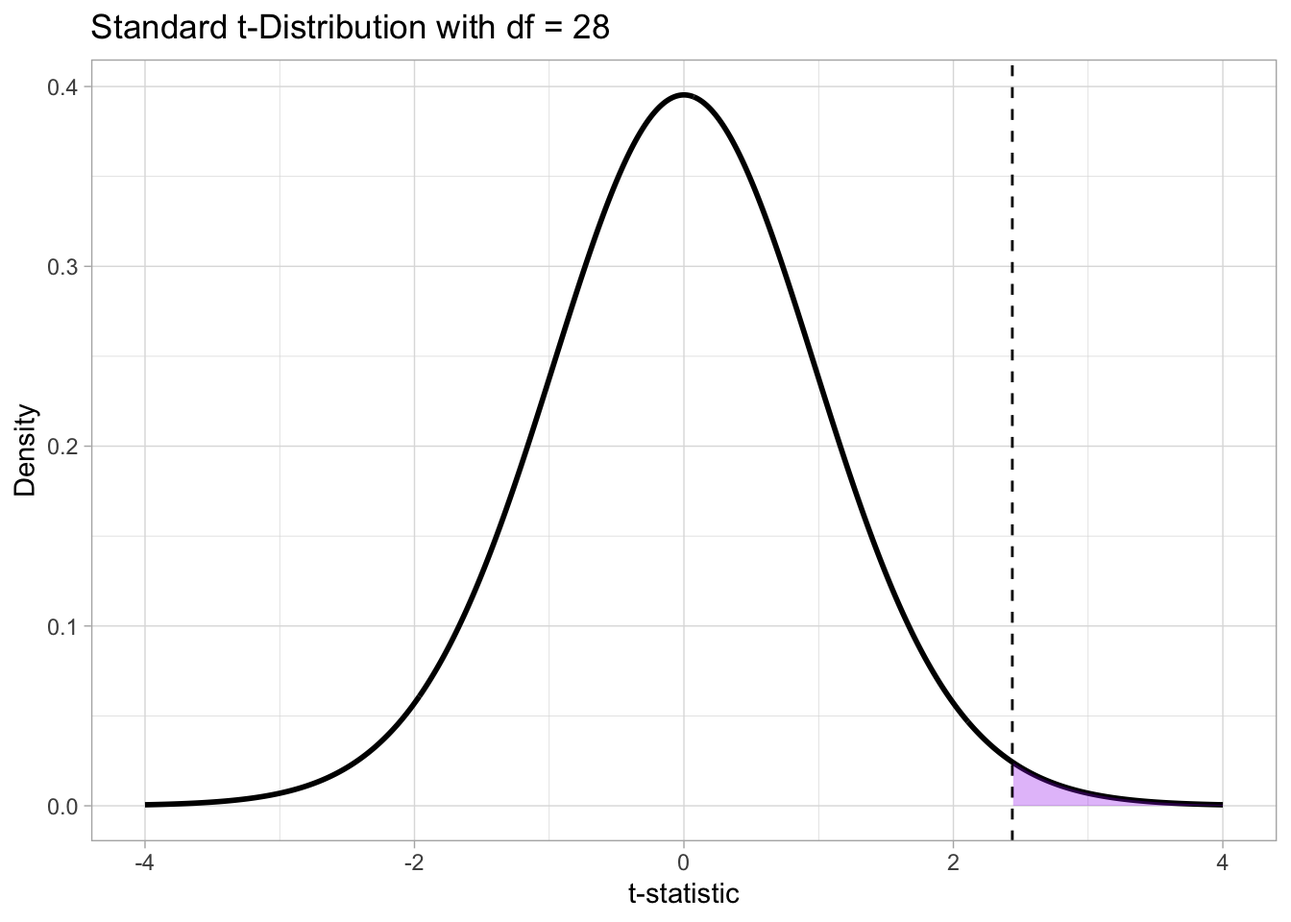
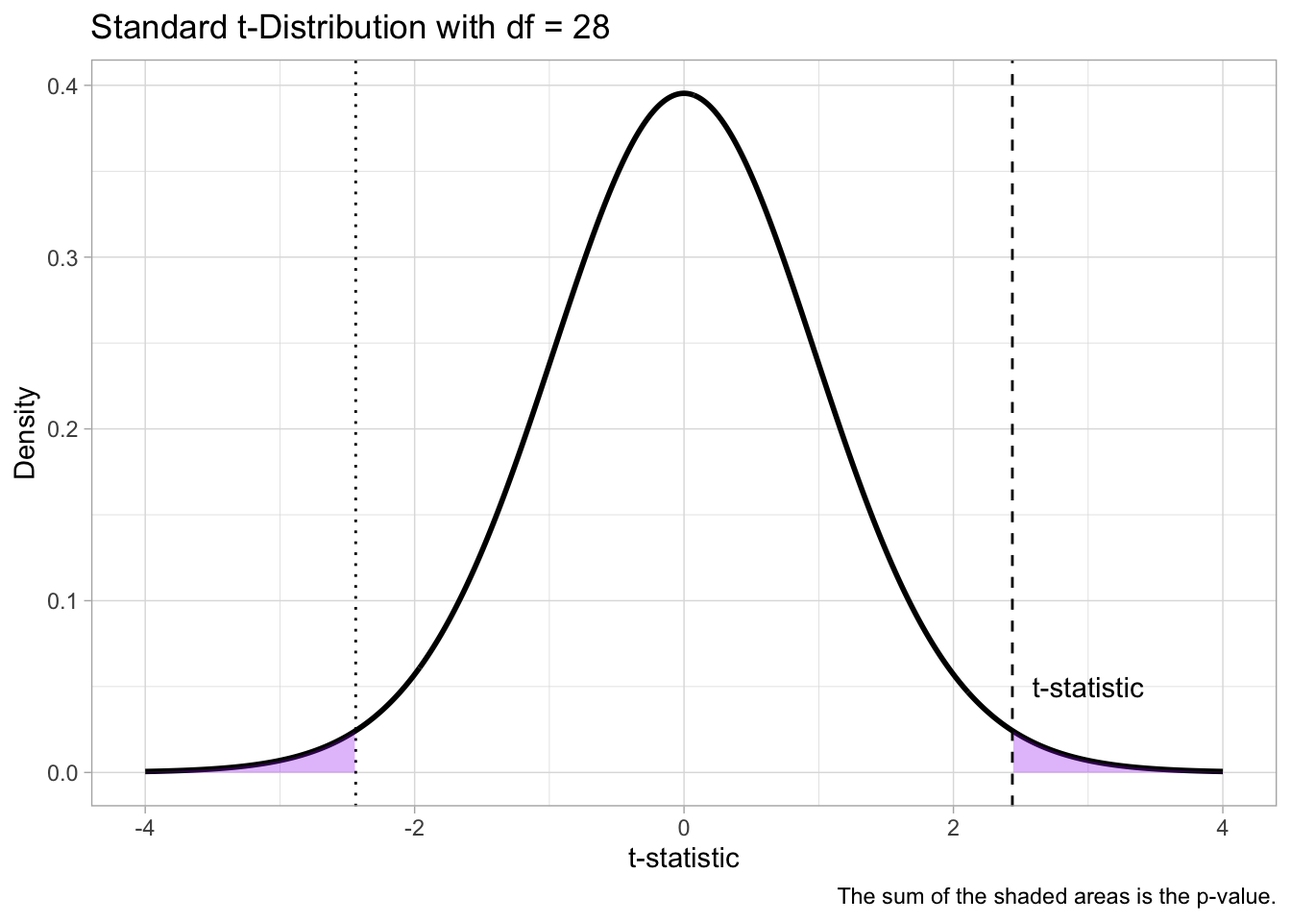
edit chapters

diff --git a/docs/ch-null-ritual.html b/docs/ch-null-ritual.html
@@ -741,9 +741,9 @@ window.Quarto = {
 <p>In <a href="ch-bayes.html" class="quarto-xref"><span>Chapter 20</span></a>, you were introduced to the Bayesian approach to inference, and we only briefly mentioned frequentist statistics. It is very likely that you had heard of <em>p</em>-values before, especially when reading research literature. You will have also heard of “statistical significance”, which is based on the <em>p</em>-value obtained in a statistical test performed on data. This section will explain what <em>p</em>-values are, how they are often misinterpreted and misused <span class="citation" data-cites="cassidy2019 gigerenzer2004">(<a href="references.html#ref-cassidy2019" role="doc-biblioref">Cassidy et al. 2019</a>; <a href="references.html#ref-gigerenzer2004" role="doc-biblioref">Gigerenzer 2004</a>)</span>, and how the “Null Ritual”, a degenerate form of statistics derived from different frequentist frameworks (yes, you can do frequentist statistics in different ways!) that has become the standard in research, despite not being a coherent way of doing frequentist statistics <span class="citation" data-cites="gigerenzer2004a">(<a href="references.html#ref-gigerenzer2004a" role="doc-biblioref">Gigerenzer, Krauss, and Vitouch 2004</a>)</span>.</p>
 <section id="frequentist-statistics-feuds-and-eugenics-a-brief-history" class="level2" data-number="29.1">
 <h2 data-number="29.1" class="anchored" data-anchor-id="frequentist-statistics-feuds-and-eugenics-a-brief-history"><span class="header-section-number">29.1</span> Frequentist statistics, feuds and eugenics: a brief history</h2>
-<p>A lot of current research is carried out with frequentist methods. This is a historical accident, based on both an initial misunderstanding of Bayesian statistics (which is, by the way, older than frequentist statistics) and the fact that frequentist maths was much easier to deal with (and personal computers did not exist at the time). Bayesian statistics, rooted in Thomas Bayes’s (1701-1771) work on updating probabilities with new evidence based on a specific interpration of Bayes’ Theorem, remained largely dormant until the 20th century due to computational difficulties and philosophical debates. It gained widespread traction in the 1990s with advances in computational methods, especially the development of Markov Chain Monte Carlo ( <a href="ch-regression-draws.html" class="quarto-xref"><span>Chapter 25</span></a>). However, modern frequentist statistics is attributed to three statisticians whose lives span several decades before the time Bayesianism found a place in statistical debates: Ronald Fisher (1890-1926), Jerzy Neyman (1894-1981) and Egon Pearson (1895-1980, the son of another statistician, Karl Pearson 1857-1936).</p>
-<p>The history of frequentist statistics is a tale of heated debates, feuds and the now discredited field of eugenics (a colonial movement with the aim of improving the genetic “quality” of human populations). Francis Galton (1822-1911) is considered the originator of eugenics: this is the same Galton who came up with the idea of “regression toward mediocrity” which gives the name to regression models (see Spotlight box in <a href="ch-regression-intro.html" class="quarto-xref"><span>Chapter 23</span></a>). Karl Pearson was deeply influenced by Galton and saw statistics as a tool for improving racial fitness. Pearson’s Biometric School in Britain was explicitly tied to eugenics research. Ronald Fisher was another British statistician who strongly believed in eugenics and racial differences. While both K. Pearson and Fisher were proponents of eugenics, they differed in their understanding of statistics. Fisher criticised K. Pearson’s approach as too mechanic and simplistic (thus earning the elder statistician’s lasting disapproval). Fisher came up with the concept of <strong>statistical significance</strong> and devised the famous <strong><em>p</em>-value</strong> as a way to quantify statistical significance based on data, against a hypothesis (to be nullified) of how the researcher thought the data were produced.</p>
-<p>Fisher’s contemporaries Jerzy Neyman and Egon Pearson (the son of K. Pearson), who both rejected eugenics, found Fisher’s critiques to K. Pearson’s (the father) approach well-founded, but they themselves thought Fisher’s significance testing fell short. While Fisher’s significance testing was based on quantifying significance in light of a single hypothesis, Neyman and E. Pearson (the son) argued that one should contrast two opposing hypotheses and control for error rates in rejecting one and accepting the other. They thus introduced the idea of “<strong>significance level</strong>”, a threshold which determined if one accepted a result as statistical significant or not. In sum, while Fisher’s approach was focused on estimating the <em>degree</em> of statistical significance, Neyman and Pearson’s approach was more interested in <em>decision-making</em> under uncertainty. “Fisherian frequentism” and “Neyman–Pearson frequentism”, as they later became to be known, are incompatible approaches, despite both being based on the same statistical concept of the <em>p</em>-value, because they entail two very different interpretations of statistical significance (and the objective of research more generally).</p>
+<p>A lot of current research is carried out with frequentist methods. This is a historical accident, based on both an initial misunderstanding of Bayesian statistics (which is, by the way, older than frequentist statistics) and the fact that frequentist maths was much easier to deal with (and personal computers did not exist at the time). Bayesian statistics, rooted in <a href="https://en.wikipedia.org/wiki/Thomas_Bayes">Thomas Bayes</a>‘s (1701-1771) work on updating probabilities with new evidence based on a specific interpration of Bayes’ Theorem, remained largely dormant until the 20th century due to computational difficulties and philosophical debates. It gained widespread traction in the 1990s with advances in computational methods, especially the development of Markov Chain Monte Carlo ( <a href="ch-regression-draws.html" class="quarto-xref"><span>Chapter 25</span></a>). However, modern frequentist statistics is attributed to three statisticians whose lives span several decades before the time Bayesianism found a place in statistical debates: Ronald Fisher (1890-1926), Jerzy Neyman (1894-1981) and Egon Pearson (1895-1980, the son of another statistician, Karl Pearson 1857-1936).</p>
+<p>The history of frequentist statistics is a tale of heated debates, feuds and the now discredited field of eugenics (a colonial movement with the aim of improving the genetic “quality” of human populations). <a href="https://en.wikipedia.org/wiki/Francis_Galton">Francis Galton</a> (1822-1911) is considered the originator of eugenics: this is the same Galton who came up with the idea of “regression toward mediocrity” which gives the name to regression models (see Spotlight box in <a href="ch-regression-intro.html" class="quarto-xref"><span>Chapter 23</span></a>). <a href="https://en.wikipedia.org/wiki/Karl_Pearson">Karl Pearson</a> was deeply influenced by Galton and saw statistics as a tool for improving racial fitness. Pearson’s Biometric School in Britain was explicitly tied to eugenics research. <a href="https://en.wikipedia.org/wiki/Ronald_Fisher">Ronald Fisher</a> was another British statistician who strongly believed in eugenics and racial differences. While both K. Pearson and Fisher were proponents of eugenics, they differed in their understanding of statistics. Fisher criticised K. Pearson’s approach as too mechanic and simplistic (thus earning the elder statistician’s lasting disapproval). Fisher came up with the concept of <strong>statistical significance</strong> and devised the famous <strong><em>p</em>-value</strong> as a way to quantify statistical significance based on data, against a hypothesis (to be nullified) of how the researcher thought the data were produced.</p>
+<p>Fisher’s contemporaries <a href="https://en.wikipedia.org/wiki/Jerzy_Neyman">Jerzy Neyman</a> and <a href="https://en.wikipedia.org/wiki/Egon_Pearson">Egon Pearson</a> (the son of K. Pearson), who both rejected eugenics, found Fisher’s critiques to K. Pearson’s (the father) approach well-founded, but they themselves thought Fisher’s significance testing fell short. While Fisher’s significance testing was based on quantifying significance in light of a single hypothesis, Neyman and E. Pearson (the son) argued that one should contrast two opposing hypotheses and control for error rates in rejecting one and accepting the other. They thus introduced the idea of “<strong>significance level</strong>”, a threshold which determined if one accepted a result as statistical significant or not. In sum, while Fisher’s approach was focused on estimating the <em>degree</em> of statistical significance, Neyman and Pearson’s approach was more interested in <em>decision-making</em> under uncertainty. “Fisherian frequentism” and “Neyman–Pearson frequentism”, as they later became to be known, are incompatible approaches, despite both being based on the same statistical concept of the <em>p</em>-value, because they entail two very different interpretations of statistical significance (and the objective of research more generally).</p>
 </section>
 <section id="null-hypothesis-significance-testing" class="level2" data-number="29.2">
 <h2 data-number="29.2" class="anchored" data-anchor-id="null-hypothesis-significance-testing"><span class="header-section-number">29.2</span> Null Hypothesis Significance Testing</h2>
@@ -770,14 +770,15 @@ window.Quarto = {
 <pre><code>[1] 7.43991</code></pre>
 </div>
 </div>
-<p>The difference in the sample means is about 7.4. Now, a frequentist statistician would define the following two hypotheses:</p>
+<p>The difference in the sample means is about 7.4. Now, a NHST researcher would define the following two hypotheses:</p>
 <ul>
 <li><p><span class="math inline">\(H_0\)</span>: the difference between means is 0.</p></li>
-<li><p><span class="math inline">\(H1\)</span>: the difference between means is <em>greater than</em> 0.</p></li>
+<li><p><span class="math inline">\(H1\)</span>: the difference between means is <em>not</em> 0.</p></li>
 </ul>
-<p><span class="math inline">\(H_0\)</span> simply states that there is no difference between the mean of vowel duration when followed by voiced or voiceless consonants. This is the “null” hypothesis. For <span class="math inline">\(H_1\)</span>, we decide to go with “greater than 0” because we know about the trend of longer vowels before voiced consonants, so the difference should be positive. This is called the “alternative” hypothesis.</p>
+<p><span class="math inline">\(H_0\)</span> simply states that there is no difference between the mean of vowel duration when followed by voiced or voiceless consonants. This is the “null” hypothesis. <span class="math inline">\(H_1\)</span>, called the “alternative” hypothesis, states that the difference between means is different from exactly 0. We could have decided to go with “greater than 0”, rather than just “not 0”, because we know about the trend of longer vowels before voiced consonants, so the difference should be positive. But this is not how NHST is usually set up: it is always assumed that the <span class="math inline">\(H_1\)</span> is “the difference between means is not 0”.</p>
 <p>Here is where things get tricky: if <span class="math inline">\(H_0\)</span> is correct, then we should observe a difference as close to 0 as possible. Why not exactly 0? Because it is impossible for two samples (even if they come exactly from the same distribution) to have exactly the same mean for the difference to be 0. But how do we define “as close as possible”? The frequentist solution is to define a probability distribution of the difference between means centred around 0. This means that 0 has the highest probability, but that negative and positive differences around 0 are also possible.</p>
-<p>William Sealy Gosset, a statistician, chemist and brewer who worked for Guinness, the brewery, has proposed the <em>t</em>-distribution (also called the Student-<em>t</em> distribution, from Gosset’s pseudonym “Student”) as an appropriate probability distribution for differences between means. The <em>t</em>-distribution is similar to a Gaussian distribution, but the probability on either side of the mean declines more gently than with the Gaussian. As the Gaussian, the <em>t</em>-distribution has a mean and a standard deviation. It has an extra parameter: the degrees of freedom, or <span class="math inline">\(df\)</span>. The <span class="math inline">\(df\)</span> affect how quickly the probability declines moving away from zero: the higher the <span class="math inline">\(df\)</span> the more quickly the probability gets lower. This is illustrated in <a href="#fig-tdist" class="quarto-xref">Figure&nbsp;<span>29.1</span></a>. The figure shows four different <em>t</em>-distributions: what they all have in common is that the mean is 0 and the standard deviation is 1. These are called “standard” <em>t</em>-distributions. Where they differ is in their degrees of freedom. When the degrees of freedom are infinite (<code>Inf</code>), the <em>t</em>-distribution is equivalent to a Gaussian distribution.</p>
+<p><a href="https://en.wikipedia.org/wiki/William_Sealy_Gosset">William Sealy Gosset</a> (1876-1937), a statistician, chemist and brewer who worked for Guinness the brewery, proposed the <em>t</em>-distribution for this purpose. Gosset, though employed at Guinness, was sent to University College London in 1906–1907 to study statistics under Karl Pearson (the father), who at the time was the leading authority in mathematical statistics. Guinness allowed this because Gosset needed advanced statistical tools to handle small experimental data sets in brewing and agriculture. K. Pearson’s <em>Biometrika</em> journal became the outlet where Gosset published his famous 1908 paper “The probable error of a mean” <span class="citation" data-cites="student1908">(<a href="references.html#ref-student1908" role="doc-biblioref">Student 1908</a>)</span>. K. Pearson encouraged Gosset to publish it, though Guinness insisted that he use a pseudonym to protect trade secrets, so Gosset published under the pseudonym “Student”. Because of this, the <em>t</em>-distribution is also called the Student-<em>t</em> distribution. Gosset argued that the <em>t</em>-distrubtion was an appropriate probability distribution for differences between means, especially with small sample sizes.</p>
+<p>The <em>t</em>-distribution is similar to a Gaussian distribution, but the probability on either side of the mean declines more gently than with the Gaussian. As the Gaussian, the <em>t</em>-distribution has a mean and a standard deviation. It has an extra parameter: the degrees of freedom, or <span class="math inline">\(df\)</span>. The <span class="math inline">\(df\)</span> affect how quickly the probability declines moving away from zero: the higher the <span class="math inline">\(df\)</span> the more quickly the probability gets lower. This is illustrated in <a href="#fig-tdist" class="quarto-xref">Figure&nbsp;<span>29.1</span></a>. The figure shows four different <em>t</em>-distributions: what they all have in common is that the mean is 0 and the standard deviation is 1. These are called “standard” <em>t</em>-distributions. Where they differ is in their degrees of freedom. When the degrees of freedom are infinite (<code>Inf</code>), the <em>t</em>-distribution is equivalent to a Gaussian distribution.</p>
 <div class="cell">
 <div class="sourceCode cell-code" id="cb4"><pre class="sourceCode r code-with-copy"><code class="sourceCode r"><span id="cb4-1"><a href="#cb4-1" aria-hidden="true" tabindex="-1"></a><span class="co"># Degrees of freedom to compare</span></span>
 <span id="cb4-2"><a href="#cb4-2" aria-hidden="true" tabindex="-1"></a>dfs <span class="ot">&lt;-</span> <span class="fu">c</span>(<span class="dv">1</span>, <span class="dv">2</span>, <span class="dv">5</span>, <span class="cn">Inf</span>)</span>
@@ -838,21 +839,27 @@ t = \frac{\bar{x}_1 - \bar{x}_2}{\sqrt{\frac{s_1^2}{n_1} + \frac{s_2^2}{n_2}}}
 <pre><code>[1] 2.437442</code></pre>
 </div>
 </div>
-<p>So the <em>t</em>-statistic for our calculated difference is 2.4374424. The frequentist statistician would then ask: what is the probability of finding a <em>t</em>-statistic (and a difference) this large or larger, assuming that the <em>t</em>-statistic (and the difference) is 0. This probability is the <strong><em>p</em>-value</strong>. You should note two things:</p>
+<p>So the <em>t</em>-statistic for our calculated difference is 2.4374424. Gosset introduced the <em>t</em>-statistics as a tool for quantile interval estimation and for comparing means, but hypothesis testing wouldn’t be “invented” until Fisher’s work on the <em>p</em>-value one or two decades later. Fisher took Gosset’s <em>t</em>-statistic and embedded it into his broader significance testing framework. Fisher popularized the use of the <em>t</em>-distribution for calculating <em>p</em>-values: the probability, under the null hypothesis, of obtaining a <em>t</em>-statistic as extreme or more extreme than the observed value. This reframing changed the purpose of Gosset’s work from estimation to a frequentist test of significance.</p>
+<p>Now, after having obtained the <em>t</em>-statistic, the NHST researcher would ask: what is the probability of finding a <em>t</em>-statistic (and the difference in means it represents) this large or larger, assuming that the <em>t</em>-statistic (and the difference) is 0. This probability is Fisher’s <strong><em>p</em>-value</strong>. You should note two things:</p>
 <ul>
-<li><p>First, the part about the real difference being 0. This is <span class="math inline">\(H_0\)</span> from above, our null hypothesis that the difference is 0. For a <em>p</em>-value to work, we must assume that <span class="math inline">\(H_0\)</span> is true. Otherwise, the frequentist machinery does not work.</p></li>
-<li><p>Another important aspect is the “difference this large <em>or larger</em>”: due to how probability density function works (i.e.&nbsp;functions to obtain probabilities of continuous variables), we cannot obtain the probability of a specific value, but only the probability of an interval of values. The frequentist story goes that, if <span class="math inline">\(H_0\)</span> is true, you should not get very large differences, let alone larger differences than the one found.</p></li>
+<li><p>First, the part about the real difference being 0. This is <span class="math inline">\(H_0\)</span> from above, our null hypothesis that the difference is 0. For a <em>p</em>-value to work, we must assume that <span class="math inline">\(H_0\)</span> is always true. Otherwise, the frequentist machinery does not work.</p></li>
+<li><p>Another important aspect is the “difference this large <em>or larger</em>”: due to how probability density functions work, we cannot obtain the probability of a specific value, but only the probability of an interval of values (<a href="ch-gaussian.html" class="quarto-xref"><span>Chapter 19</span></a>). The NHST story goes that, if <span class="math inline">\(H_0\)</span> is true, you should not get very large differences, let alone larger differences than the one found.</p></li>
 </ul>
 <p>The next step is thus to obtain the probability of <span class="math inline">\(t \geq\)</span> 2.4374424 (<em>t</em> being equal or greater than 2.4374424), given a standard <em>t</em>-distribution. Before we can do this we need to pick the degrees of freedom of the distribution, because of course these affect the probability. The degrees of freedom are calculated based on the data with the following, admittedly complex, formula:</p>
 <p><span class="math display">\[
 \nu = \frac{\left( \frac{s_1^2}{n_1} + \frac{s_2^2}{n_2} \right)^2}{\frac{\left( \frac{s_1^2}{n_1} \right)^2}{n_1 - 1} + \frac{\left( \frac{s_2^2}{n_2} \right)^2}{n_2 - 1}}
 \]</span></p>
 <div class="cell">
+<details class="code-fold">
+<summary>Code</summary>
 <div class="sourceCode cell-code" id="cb7"><pre class="sourceCode r code-with-copy"><code class="sourceCode r"><span id="cb7-1"><a href="#cb7-1" aria-hidden="true" tabindex="-1"></a>df <span class="ot">&lt;-</span> ( (var_voi<span class="sc">/</span><span class="dv">15</span> <span class="sc">+</span> var_vls<span class="sc">/</span><span class="dv">15</span>)<span class="sc">^</span><span class="dv">2</span> ) <span class="sc">/</span> </span>
 <span id="cb7-2"><a href="#cb7-2" aria-hidden="true" tabindex="-1"></a>      ( ((var_voi<span class="sc">/</span><span class="dv">15</span>)<span class="sc">^</span><span class="dv">2</span> <span class="sc">/</span> (<span class="dv">15</span> <span class="sc">-</span> <span class="dv">1</span>)) <span class="sc">+</span> ((var_vls<span class="sc">/</span><span class="dv">15</span>)<span class="sc">^</span><span class="dv">2</span> <span class="sc">/</span> (<span class="dv">15</span> <span class="sc">-</span> <span class="dv">1</span>)) )</span></code><button title="Copy to Clipboard" class="code-copy-button"><i class="bi"></i></button></pre></div>
+</details>
 </div>
-<p>The degrees of freedom for our data are approximately 28. <a href="#fig-tdist-2" class="quarto-xref">Figure&nbsp;<span>29.2</span></a> shows a <em>t</em>-distribution with those degrees of freedom and a dashed line where our <em>t</em>-statistic falls. The shaded purple area marks the area under the probability curve with <em>t</em> values equal or greater than the obtained <em>t</em>-statistic. The size of this area is the probability that we get a <em>t</em> value equal or greater than the obtained <em>t</em>-statistic. This probability is the <em>p</em>-value!</p>
+<p>The degrees of freedom for our data are approximately 28. <a href="#fig-tdist-2" class="quarto-xref">Figure&nbsp;<span>29.2</span></a> shows a <em>t</em>-distribution with those degrees of freedom and a dashed line where our <em>t</em>-statistic falls. Now, since we set <span class="math inline">\(H_1\)</span> to be “the difference is not 0”, we are including both positive and negative differences between the means. The sign of the <em>t</em>-statistic reflects the sign of the difference: positive <em>t</em> means a positive difference, while negative <em>t</em> indicates a negative difference between the two means. Since <span class="math inline">\(H_1\)</span> is non-directional (it does not specify whether the difference is positive or negative), the <em>p</em>-value must account for extreme values of the <em>t</em>-statistic in both directions. This is called a two-tailed <em>t</em>-test: the <em>p</em>-value is the probability of observing a <em>t</em>-statistic at least as extreme as the one obtained, in either tail of the <em>t</em>-distribution. In <a href="#fig-tdist-2" class="quarto-xref">Figure&nbsp;<span>29.2</span></a>, the dotted line to the left of the distribution marks the <em>t</em>-statistic but with negative sign. The shaded purple area on both tails of the distribution marks the area under the density curve with <em>t</em> values as extreme or more extreme than the obtained <em>t</em>-statistic. The size of this area is the probability that we get a <em>t</em> value as extreme or more extreme than the obtained <em>t</em>-statistic. This probability is the <em>p</em>-value!</p>
 <div class="cell">
+<details class="code-fold">
+<summary>Code</summary>
 <div class="sourceCode cell-code" id="cb8"><pre class="sourceCode r code-with-copy"><code class="sourceCode r"><span id="cb8-1"><a href="#cb8-1" aria-hidden="true" tabindex="-1"></a><span class="co"># Create data</span></span>
 <span id="cb8-2"><a href="#cb8-2" aria-hidden="true" tabindex="-1"></a>data <span class="ot">&lt;-</span> <span class="fu">tibble</span>(<span class="at">df =</span> df) <span class="sc">|&gt;</span></span>
 <span id="cb8-3"><a href="#cb8-3" aria-hidden="true" tabindex="-1"></a>  <span class="fu">mutate</span>(<span class="at">data =</span> <span class="fu">map</span>(df, <span class="sc">~</span> {</span>
@@ -868,15 +875,26 @@ t = \frac{\bar{x}_1 - \bar{x}_2}{\sqrt{\frac{s_1^2}{n_1} + \frac{s_2^2}{n_2}}}
 <span id="cb8-13"><a href="#cb8-13" aria-hidden="true" tabindex="-1"></a><span class="fu">ggplot</span>(data, <span class="fu">aes</span>(<span class="at">x =</span> x, <span class="at">y =</span> y)) <span class="sc">+</span></span>
 <span id="cb8-14"><a href="#cb8-14" aria-hidden="true" tabindex="-1"></a>  <span class="fu">geom_line</span>(<span class="at">linewidth =</span> <span class="dv">1</span>) <span class="sc">+</span></span>
 <span id="cb8-15"><a href="#cb8-15" aria-hidden="true" tabindex="-1"></a>  <span class="fu">geom_vline</span>(<span class="at">xintercept =</span> tstat, <span class="at">linetype =</span> <span class="st">"dashed"</span>) <span class="sc">+</span></span>
-<span id="cb8-16"><a href="#cb8-16" aria-hidden="true" tabindex="-1"></a>  <span class="fu">geom_area</span>(</span>
-<span id="cb8-17"><a href="#cb8-17" aria-hidden="true" tabindex="-1"></a>    <span class="at">data =</span> <span class="fu">subset</span>(data, x <span class="sc">&gt;=</span> tstat),</span>
-<span id="cb8-18"><a href="#cb8-18" aria-hidden="true" tabindex="-1"></a>    <span class="fu">aes</span>(<span class="at">x =</span> x, <span class="at">y =</span> y),</span>
-<span id="cb8-19"><a href="#cb8-19" aria-hidden="true" tabindex="-1"></a>    <span class="at">fill =</span> <span class="st">"purple"</span>, <span class="at">alpha =</span> <span class="fl">0.3</span></span>
-<span id="cb8-20"><a href="#cb8-20" aria-hidden="true" tabindex="-1"></a>  ) <span class="sc">+</span></span>
-<span id="cb8-21"><a href="#cb8-21" aria-hidden="true" tabindex="-1"></a>  <span class="fu">labs</span>(</span>
-<span id="cb8-22"><a href="#cb8-22" aria-hidden="true" tabindex="-1"></a>    <span class="at">title =</span> glue<span class="sc">::</span><span class="fu">glue</span>(<span class="st">"Standard t-Distribution with df = {round(df)}"</span>),</span>
-<span id="cb8-23"><a href="#cb8-23" aria-hidden="true" tabindex="-1"></a>    <span class="at">x =</span> <span class="st">"t-statistic"</span>, <span class="at">y =</span> <span class="st">"Density"</span>,</span>
-<span id="cb8-24"><a href="#cb8-24" aria-hidden="true" tabindex="-1"></a>  )</span></code><button title="Copy to Clipboard" class="code-copy-button"><i class="bi"></i></button></pre></div>
+<span id="cb8-16"><a href="#cb8-16" aria-hidden="true" tabindex="-1"></a>  <span class="fu">geom_vline</span>(<span class="at">xintercept =</span> <span class="sc">-</span>tstat, <span class="at">linetype =</span> <span class="st">"dotted"</span>) <span class="sc">+</span></span>
+<span id="cb8-17"><a href="#cb8-17" aria-hidden="true" tabindex="-1"></a>  <span class="fu">geom_area</span>(</span>
+<span id="cb8-18"><a href="#cb8-18" aria-hidden="true" tabindex="-1"></a>    <span class="at">data =</span> <span class="fu">subset</span>(data, x <span class="sc">&gt;=</span> tstat),</span>
+<span id="cb8-19"><a href="#cb8-19" aria-hidden="true" tabindex="-1"></a>    <span class="fu">aes</span>(<span class="at">x =</span> x, <span class="at">y =</span> y),</span>
+<span id="cb8-20"><a href="#cb8-20" aria-hidden="true" tabindex="-1"></a>    <span class="at">fill =</span> <span class="st">"purple"</span>, <span class="at">alpha =</span> <span class="fl">0.3</span></span>
+<span id="cb8-21"><a href="#cb8-21" aria-hidden="true" tabindex="-1"></a>  ) <span class="sc">+</span></span>
+<span id="cb8-22"><a href="#cb8-22" aria-hidden="true" tabindex="-1"></a>  <span class="fu">geom_area</span>(</span>
+<span id="cb8-23"><a href="#cb8-23" aria-hidden="true" tabindex="-1"></a>    <span class="at">data =</span> <span class="fu">subset</span>(data, x <span class="sc">&lt;=</span> <span class="sc">-</span>tstat),</span>
+<span id="cb8-24"><a href="#cb8-24" aria-hidden="true" tabindex="-1"></a>    <span class="fu">aes</span>(<span class="at">x =</span> x, <span class="at">y =</span> y),</span>
+<span id="cb8-25"><a href="#cb8-25" aria-hidden="true" tabindex="-1"></a>    <span class="at">fill =</span> <span class="st">"purple"</span>, <span class="at">alpha =</span> <span class="fl">0.3</span></span>
+<span id="cb8-26"><a href="#cb8-26" aria-hidden="true" tabindex="-1"></a>  ) <span class="sc">+</span></span>
+<span id="cb8-27"><a href="#cb8-27" aria-hidden="true" tabindex="-1"></a>  <span class="fu">annotate</span>(</span>
+<span id="cb8-28"><a href="#cb8-28" aria-hidden="true" tabindex="-1"></a>    <span class="st">"text"</span>, <span class="at">x =</span> <span class="dv">3</span>, <span class="at">y =</span> <span class="fl">0.05</span>, <span class="at">label =</span> <span class="st">"t-statistic"</span></span>
+<span id="cb8-29"><a href="#cb8-29" aria-hidden="true" tabindex="-1"></a>  ) <span class="sc">+</span></span>
+<span id="cb8-30"><a href="#cb8-30" aria-hidden="true" tabindex="-1"></a>  <span class="fu">labs</span>(</span>
+<span id="cb8-31"><a href="#cb8-31" aria-hidden="true" tabindex="-1"></a>    <span class="at">title =</span> glue<span class="sc">::</span><span class="fu">glue</span>(<span class="st">"Standard t-Distribution with df = {round(df)}"</span>),</span>
+<span id="cb8-32"><a href="#cb8-32" aria-hidden="true" tabindex="-1"></a>    <span class="at">x =</span> <span class="st">"t-statistic"</span>, <span class="at">y =</span> <span class="st">"Density"</span>,</span>
+<span id="cb8-33"><a href="#cb8-33" aria-hidden="true" tabindex="-1"></a>    <span class="at">caption =</span> <span class="st">"The sum of the shaded areas is the p-value."</span></span>
+<span id="cb8-34"><a href="#cb8-34" aria-hidden="true" tabindex="-1"></a>  )</span></code><button title="Copy to Clipboard" class="code-copy-button"><i class="bi"></i></button></pre></div>
+</details>
 <div class="cell-output-display">
 <div id="fig-tdist-2" class="quarto-float quarto-figure quarto-figure-center anchored">
 <figure class="quarto-float quarto-float-fig figure">
@@ -890,20 +908,20 @@ Figure&nbsp;29.2: Standard <em>t</em>-distribution and obtained <em>t</em>-stati
 </div>
 </div>
 </div>
-<p>You can get the <em>p</em>-value in R using the <code>pt()</code> function. You need the <em>t</em>-value and the degrees of freedom. These are saved in <code>tstat</code> and <code>df</code> from previous code. We also need to set another argument, <code>lower.tail</code>: this argument states whether we want the probability of getting a <em>t</em> value that is equal or less than the specified <em>t</em> value, but we want the probability of getting a <em>t</em> value that is equal or greater than the specified <em>t</em> value, so we set <code>lower.tail</code> to <code>FALSE</code>.</p>
+<p>You can get the <em>p</em>-value in R using the <code>pt()</code> function. You need the <em>t</em>-value and the degrees of freedom. These are saved in <code>tstat</code> and <code>df</code> from previous code. We also need to set another argument, <code>lower.tail</code>: this argument, when set to <code>TRUE</code>, states that we want the probability of getting a <em>t</em> value that is equal or less than the specified <em>t</em> value, but we want the probability of getting a <em>t</em> value that is equal or greater than the specified <em>t</em> value, since the <em>t</em>-value is positive, so we set <code>lower.tail</code> to <code>FALSE</code>. Since this is a two-tailed <em>t</em>-test, we also need the probability for the negative tail. Since the distribution is symmetric around 0, the upper and lower-tail probabilities given a <em>t</em>-statistic are the same, so we can simply multiply the upper-tail probability by 2.</p>
 <div class="cell">
-<div class="sourceCode cell-code" id="cb9"><pre class="sourceCode r code-with-copy"><code class="sourceCode r"><span id="cb9-1"><a href="#cb9-1" aria-hidden="true" tabindex="-1"></a>pvalue <span class="ot">&lt;-</span> <span class="fu">pt</span>(tstat, df, <span class="at">lower.tail =</span> <span class="cn">FALSE</span>)</span>
-<span id="cb9-2"><a href="#cb9-2" aria-hidden="true" tabindex="-1"></a>pvalue</span></code><button title="Copy to Clipboard" class="code-copy-button"><i class="bi"></i></button></pre></div>
+<div class="sourceCode cell-code" id="cb9"><pre class="sourceCode r code-with-copy"><code class="sourceCode r"><span id="cb9-1"><a href="#cb9-1" aria-hidden="true" tabindex="-1"></a><span class="co"># pt() times 2 to get the two-tailed prob</span></span>
+<span id="cb9-2"><a href="#cb9-2" aria-hidden="true" tabindex="-1"></a>pvalue <span class="ot">&lt;-</span> <span class="fu">pt</span>(tstat, df, <span class="at">lower.tail =</span> <span class="cn">FALSE</span>) <span class="sc">*</span> <span class="dv">2</span></span>
+<span id="cb9-3"><a href="#cb9-3" aria-hidden="true" tabindex="-1"></a>pvalue</span></code><button title="Copy to Clipboard" class="code-copy-button"><i class="bi"></i></button></pre></div>
 <div class="cell-output cell-output-stdout">
-<pre><code>[1] 0.01075221</code></pre>
+<pre><code>[1] 0.02150441</code></pre>
 </div>
 </div>
-<p>In other words, assuming <span class="math inline">\(H_0\)</span> is true and there is not difference between the two groups of vowel duration, the probability of obtaining a <em>t</em>-statistic greater or equal to 2.4374424 is approximately 0.01. In other words, there is approximately a 1% probability that the difference between durations of vowels followed by voiced or voiceless consonants is 7.4399103 or larger. Of course, we want the <em>p</em>-value to be as small as possible: if <span class="math inline">\(H_0\)</span> is true and the true difference is 0, finding a large difference should be very unlikely (think about the <em>t</em>-distribution: values away from 0 are less likely than 0 and values closer to 0).</p>
-<p>But how do we decide how small is small enough? Is 1% small enough? What about 0.5%? 5%?, maybe 10%? This is the so-called <span class="math inline">\(\alpha\)</span>-level (read “alpha level”, from the Greek letter <span class="math inline">\(\alpha\)</span>). We will get back to the issue of setting an <span class="math inline">\(\alpha\)</span>-level in the next section, but for now now that in social research it has become standard to set it to 0.05. In other words, if the <em>p</em>-value is lower than <span class="math inline">\(\alpha = 0.05\)</span> then we take the <em>p</em>-value to be small enough, otherwise we don’t. When the <em>p</em>-value is smaller than 0.05, we say we found a <em>statistically significant difference</em>, when it is equal or greater than 0.05, we say we found a <em>statistically non-significant difference</em>. When we find a statistical significant difference, the frequentist story goes, we say that we <em>reject</em> the null hypothesis <span class="math inline">\(H_0\)</span>. In our simulated example of vowel duration, the <em>p</em>-value is smaller than 0.05, so we say the mean vowel durations before voiced vs voiceless consonants are (statistically) significantly different from each other.</p>
+<p>In other words, assuming <span class="math inline">\(H_0\)</span> is true and there is not difference between the two groups of vowel duration, the probability of obtaining a <em>t</em>-statistic as extreme or more extreme than <span class="math inline">\(\pm\)</span> 2.44 is approximately 0.02. In other words, there is approximately a 2% probability that the difference between durations of vowels followed by voiced or voiceless consonants is <span class="math inline">\(\pm\)</span> 7 ms or larger. Of course, we want the <em>p</em>-value to be as small as possible: if <span class="math inline">\(H_0\)</span> is true and the true difference is 0, finding a large difference should be very unlikely (think about the <em>t</em>-distribution: values away from 0 are less likely than 0 and values closer to 0). This was the original formulation of Fisher’s statistical testing: the <em>p</em> value could be taken as the <em>degree</em> of significance. However, Neyman and Pearson argued that a threshold should be decided and that a binary decision regarding significance should be taken.</p>
+<p>How do we choose how small a <em>p-</em>value is small enough? Is 1% small enough? What about 0.5%? 5%?, maybe 10%? This is what the so-called <span class="math inline">\(\alpha\)</span>-level is for (read “alpha level”, from the Greek letter <span class="math inline">\(\alpha\)</span>). We will get back to the issue of setting an <span class="math inline">\(\alpha\)</span>-level in the next section, but for now know that in social research it has become standard to set it to 0.05. In other words, if the <em>p</em>-value is lower than <span class="math inline">\(\alpha = 0.05\)</span> then we take the <em>p</em>-value to be small enough, otherwise we don’t. When the <em>p</em>-value is smaller than 0.05, we say we found a <em>statistically significant difference</em>, when it is equal or greater than 0.05, we say we found a <em>statistically non-significant difference</em>. When we find a statistical significant difference, the NHST story goes, we say that we <em>reject</em> the null hypothesis <span class="math inline">\(H_0\)</span>. In our simulated example of vowel duration, the <em>p</em>-value is smaller than 0.05, so we say the mean vowel durations before voiced vs voiceless consonants are (statistically) significantly different from each other.</p>
 </section>
 <section id="sec-null-ritual" class="level2" data-number="29.4">
 <h2 data-number="29.4" class="anchored" data-anchor-id="sec-null-ritual"><span class="header-section-number">29.4</span> The Null Ritual</h2>
-<p>XXX</p>
 </section>
 <section id="why-prefer-bayesian-inference" class="level2" data-number="29.5">
 <h2 data-number="29.5" class="anchored" data-anchor-id="why-prefer-bayesian-inference"><span class="header-section-number">29.5</span> Why prefer Bayesian inference?</h2>
@@ -976,6 +994,9 @@ Mayo, Deborah G. 2018. <em>Statistical Inference as Severe Testing: How to Get B
 </div>
 <div id="ref-perezgonzalez2015" class="csl-entry" role="listitem">
 Perezgonzalez, Jose D. 2015. <span>“Fisher, Neyman-Pearson or NHST? A Tutorial for Teaching Data Testing.”</span> <em>Frontiers in Psychology</em> 6 (223). <a href="https://doi.org/10.3389/fpsyg.2015.00223">https://doi.org/10.3389/fpsyg.2015.00223</a>.
+</div>
+<div id="ref-student1908" class="csl-entry" role="listitem">
+Student. 1908. <span>“The Probable Error of a Mean.”</span> <em>Biometrika</em> 6 (1): 1. <a href="https://doi.org/10.2307/2331554">https://doi.org/10.2307/2331554</a>.
 </div>
 </div>
 </section>
